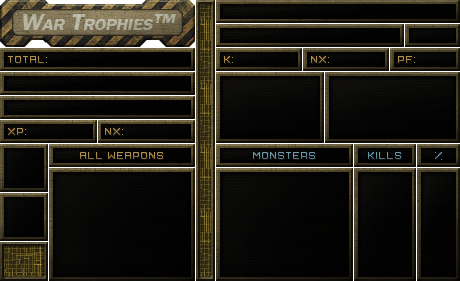
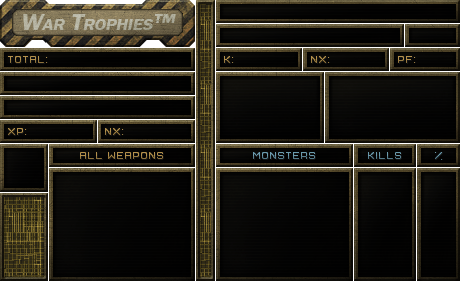
- Fixed progress reversion upon loading an older save. Stats should now be the same anywhere, anytime, anyhow.

Changed region(s): [[0.0, 0.6833, 0.1217, 0.8826]]

diff --git a/README.md b/README.md
@@ -6,7 +6,6 @@ Download the zip and load it into GZDoom. No need to change its extension to .pk
 ---
 - The mod is not multiplayer compatible!
 - Requires at least GZDoom 4.3.0!
-- Loading a previous save game will revert kill stats to what they were at the time of saving! A feature to help fix this was requested and implemented engine-side, but it is currently only available in a GZDoom dev build. If you're reading this, the issue has not been fixed.
 
 ### Do this if you want addon support
 ---
